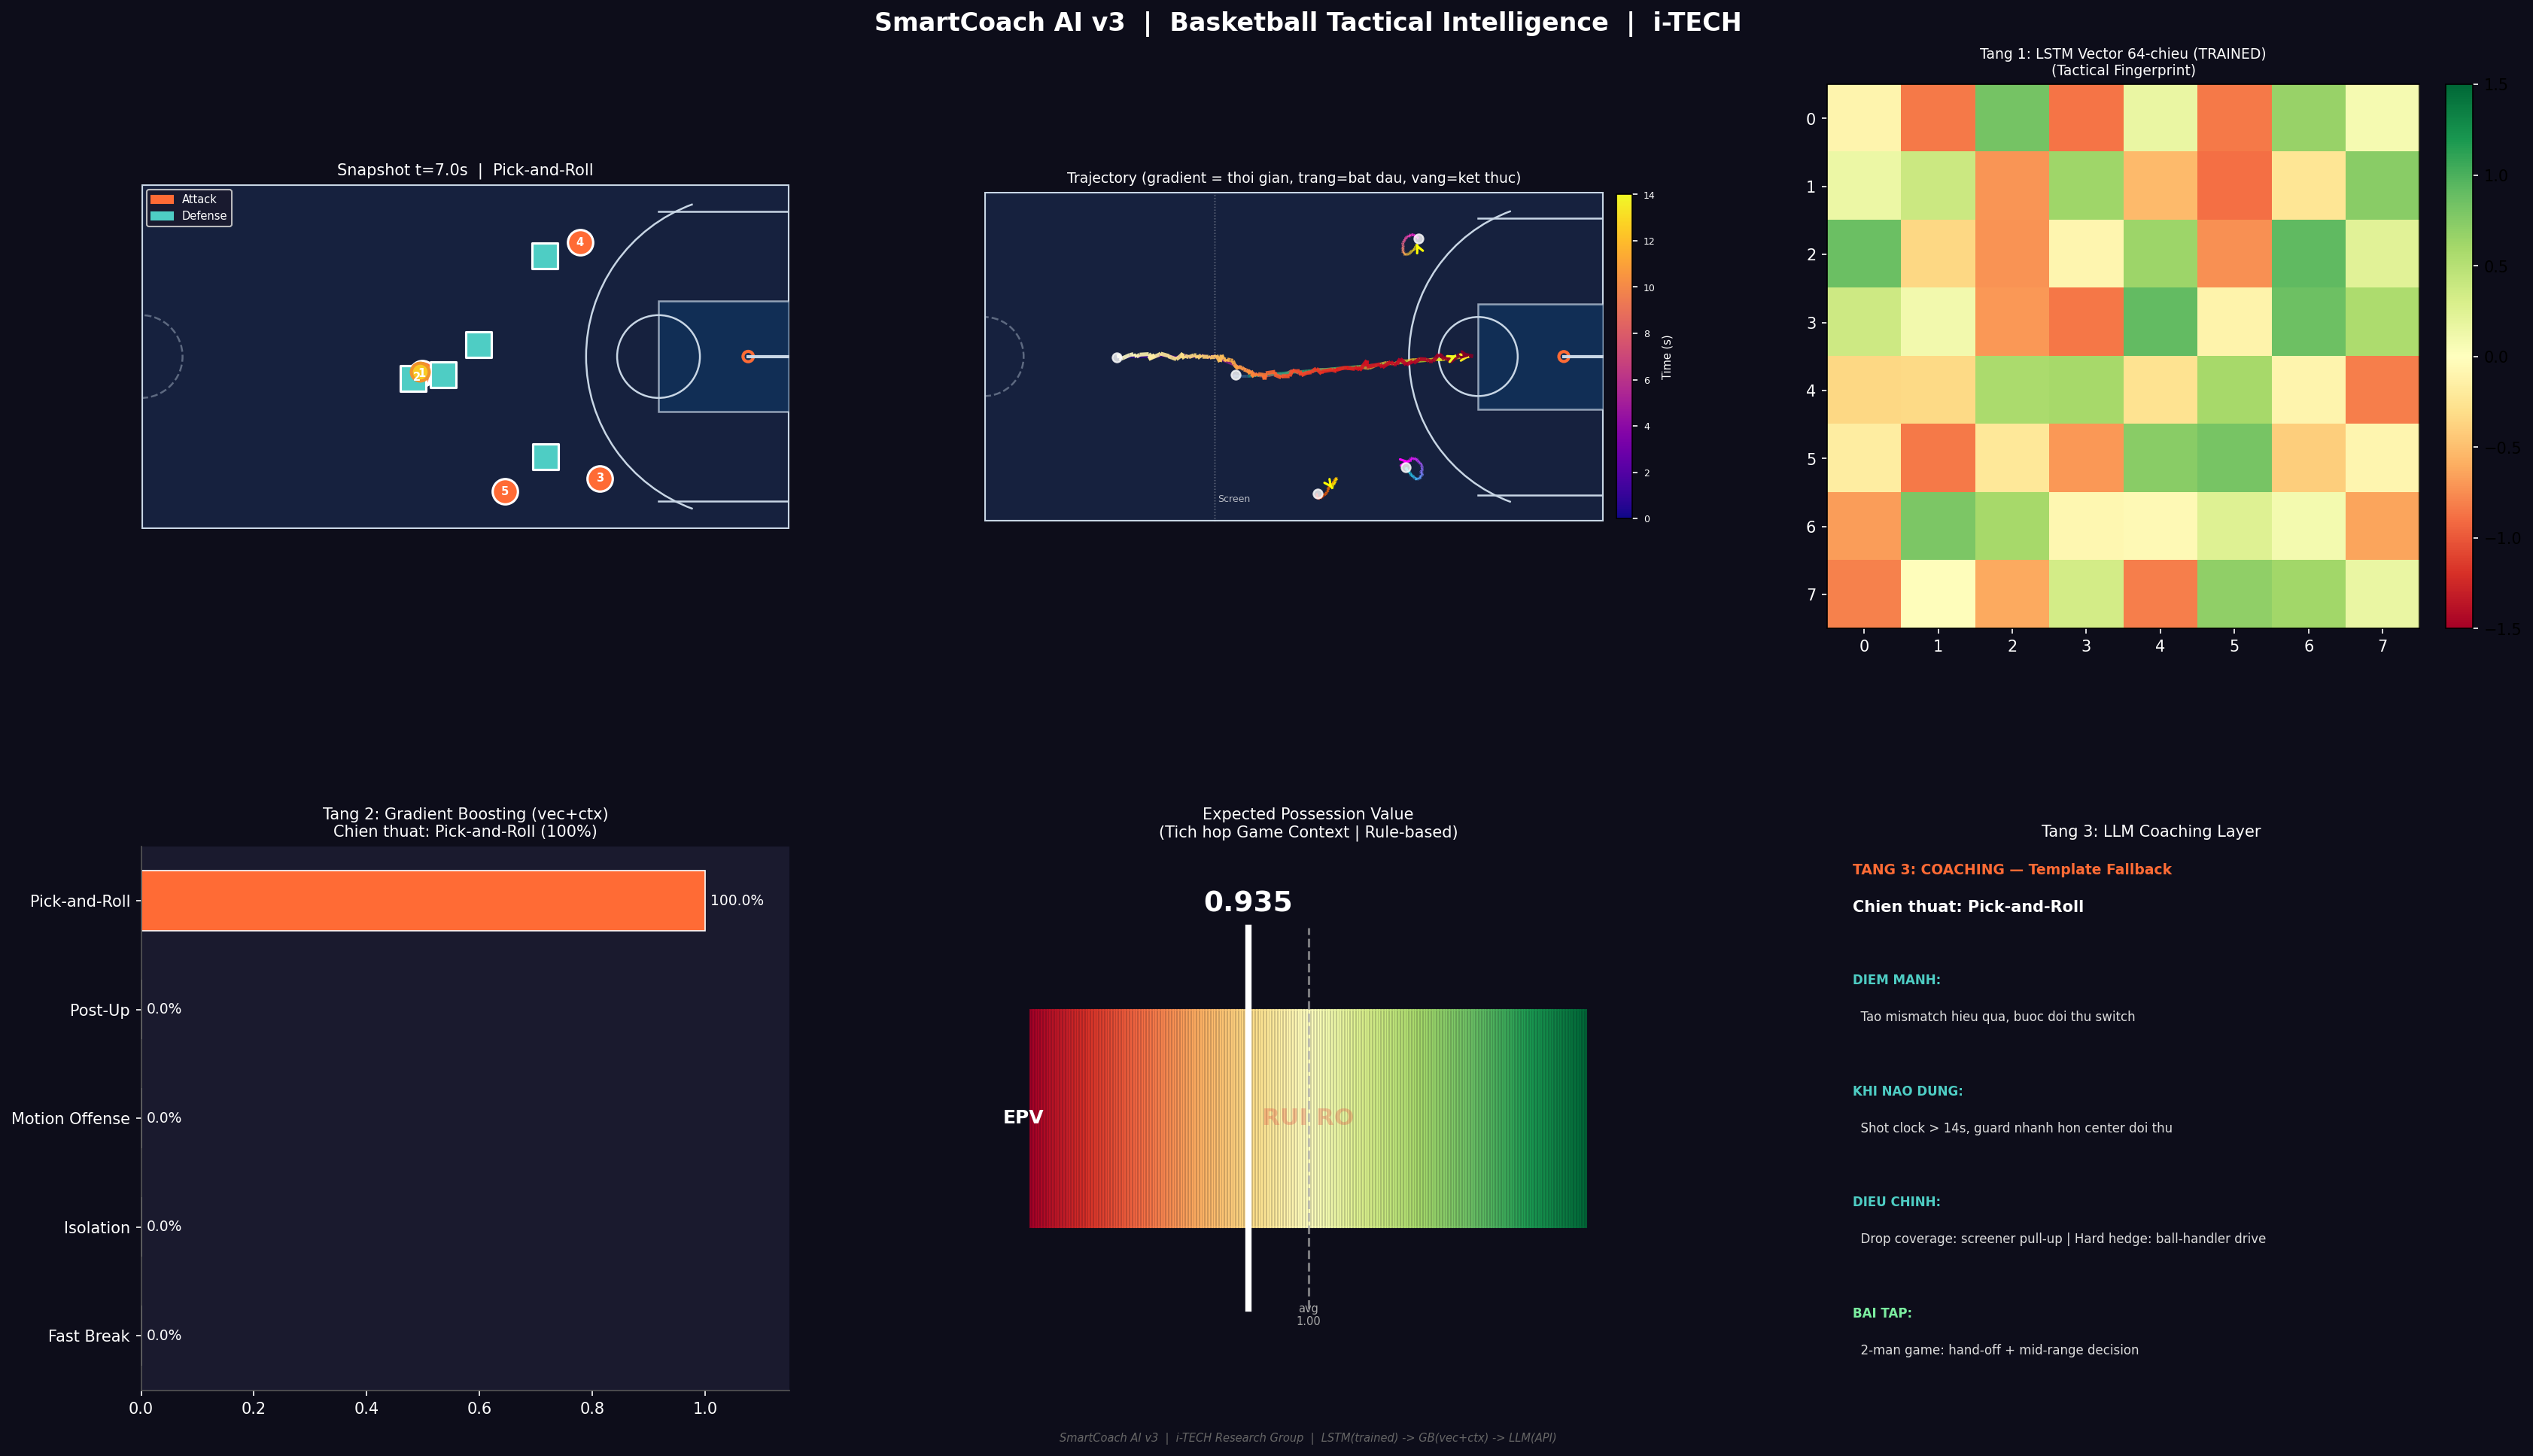
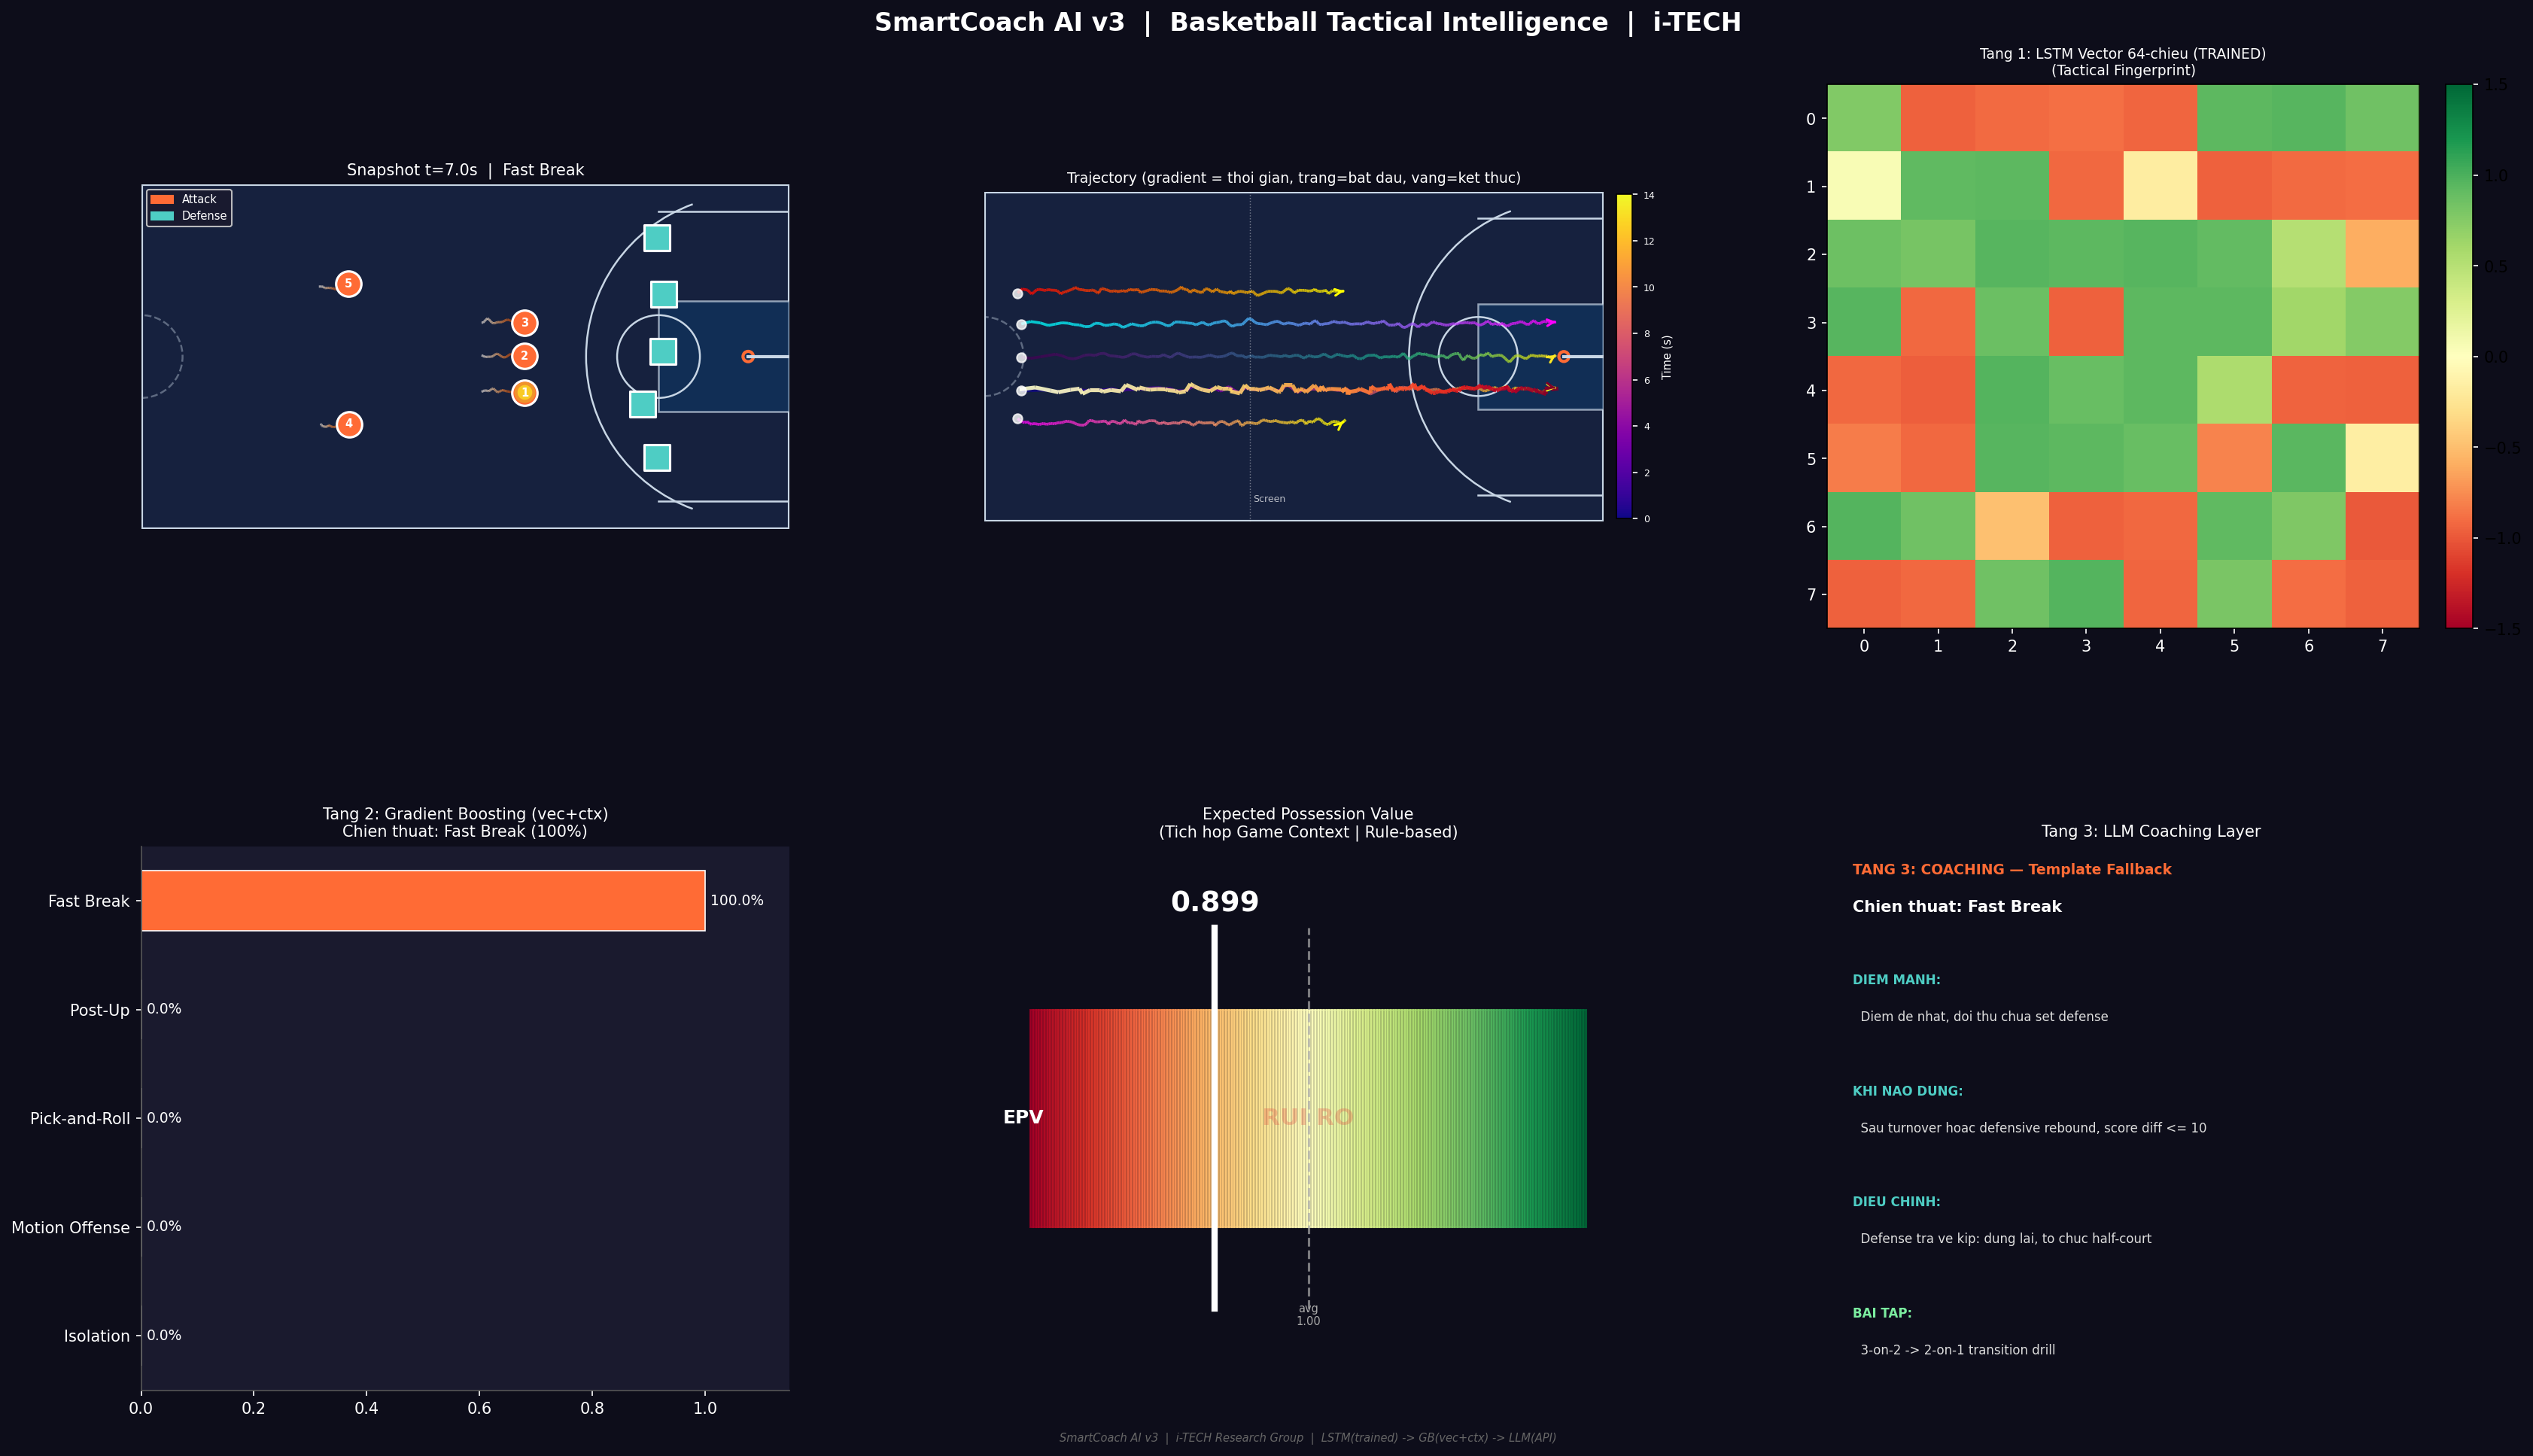
added scenario selector customization

diff --git a/smartcoach_v3.py b/smartcoach_v3.py
@@ -45,6 +45,8 @@ N_TACTICS         = len(TACTIC_LABELS)
 np.random.seed(42)
 
 # ─── HELPERS ─────────────────────────────────────────────────────────────────
+#cái này keep cái gaussian khỏi làm nhiễu 1 cách phi lý
+
 def smooth(arr, w=11):
     k = np.exp(-0.5 * np.linspace(-2, 2, w) ** 2); k /= k.sum(); p = w // 2
     out = np.zeros_like(arr)
@@ -52,6 +54,8 @@ def smooth(arr, w=11):
         col = np.pad(arr[:, d], p, mode='edge')
         out[:, d] = np.convolve(col, k, mode='valid')
     return out
+
+#gaussian đây
 
 def micro_move(n, center, r=1.5, freq=0.7):
     t = np.linspace(0, 2 * np.pi * freq, n)
@@ -64,6 +68,7 @@ def micro_move(n, center, r=1.5, freq=0.7):
 # ═══════════════════════════════════════════════════════════════════════════════
 # 1. DATA GENERATOR
 # ═══════════════════════════════════════════════════════════════════════════════
+
 def generate_possession(tactic, n_frames=N_FRAMES):
     pos = np.zeros((n_frames, N_PLAYERS, 2))
     bx  = np.zeros(n_frames)
@@ -714,6 +719,45 @@ def plot_fingerprints(vecs, labels):
 # ═══════════════════════════════════════════════════════════════════════════════
 # 8. MAIN
 # ═══════════════════════════════════════════════════════════════════════════════
+def get_custom_context():
+    import random
+    print("\n" + "="*65)
+    print(" 🛠️ TÙY CHỈNH KỊCH BẢN & BỐI CẢNH TRẬN ĐẤU (DEMO MODE)")
+    print("="*65)
+    print("(Mẹo: Bấm Enter để bỏ qua, hệ thống sẽ chọn ngẫu nhiên/mặc định)")
+
+    tactics_list = ["Fast Break", "Isolation", "Motion Offense", "Pick-and-Roll", "Post-Up"]
+    print("\n[CHIẾN THUẬT]")
+    print("1. Fast Break  |  2. Isolation  |  3. Motion Offense")
+    print("4. Pick-and-Roll  |  5. Post-Up")
+
+    try:
+        t_choice = input(" Nhập số chiến thuật muốn test (1-5): ")
+        if t_choice.strip() != "" and int(t_choice) in [1, 2, 3, 4, 5]:
+            demo_tactic = tactics_list[int(t_choice) - 1]
+        else:
+            demo_tactic = random.choice(tactics_list)
+            print(f"  -> Đã random chiến thuật: {demo_tactic}")
+
+        print("\n[BỐI CẢNH]")
+        sc = input(" 1. Thời gian ném còn lại (vd 16.0): ")
+        shot_clock = float(sc) if sc.strip() != "" else 16.0
+
+        sd = input(" 2. Cách biệt tỉ số (âm là thua): ")
+        score_diff = int(sd) if sd.strip() != "" else -3
+
+        q = input(" 3. Hiệp đấu (1-4): ")
+        quarter = int(q) if q.strip() != "" else 4
+
+    except ValueError:
+        print("\n[LỖI] Nhập sai định dạng chữ/số! Dùng kịch bản mặc định.")
+        demo_tactic = random.choice(tactics_list)
+        shot_clock, score_diff, quarter = 16.0, -3, 4
+
+    print(f"\n✅ ĐÃ CHỐT: [{demo_tactic}] | {shot_clock}s | Điểm: {score_diff} | Hiệp: {quarter}\n")
+    return demo_tactic, shot_clock, score_diff, quarter
+
+
 def main():
     print("=" * 65)
     print("  SmartCoach AI v3  |  i-TECH Research Group")
@@ -771,12 +815,10 @@ def main():
     clf = TacticClassifier()
     clf.train(vecs, ctxs, labels, epv_targets=epv_targets)
 
-    # ── Demo possession ─────────────────────────────────────────────────────
-    DEMO = "Pick-and-Roll"
-    shot_clock  = 16.0
-    score_diff  = -3
-    quarter     = 4
+   # ── Demo possession ─────────────────────────────────────────────────────
     time_remain = 3
+
+    DEMO, shot_clock, score_diff, quarter = get_custom_context()
 
     print(f"\n{'─'*65}")
     print(f"  DEMO POSSESSION: {DEMO}")